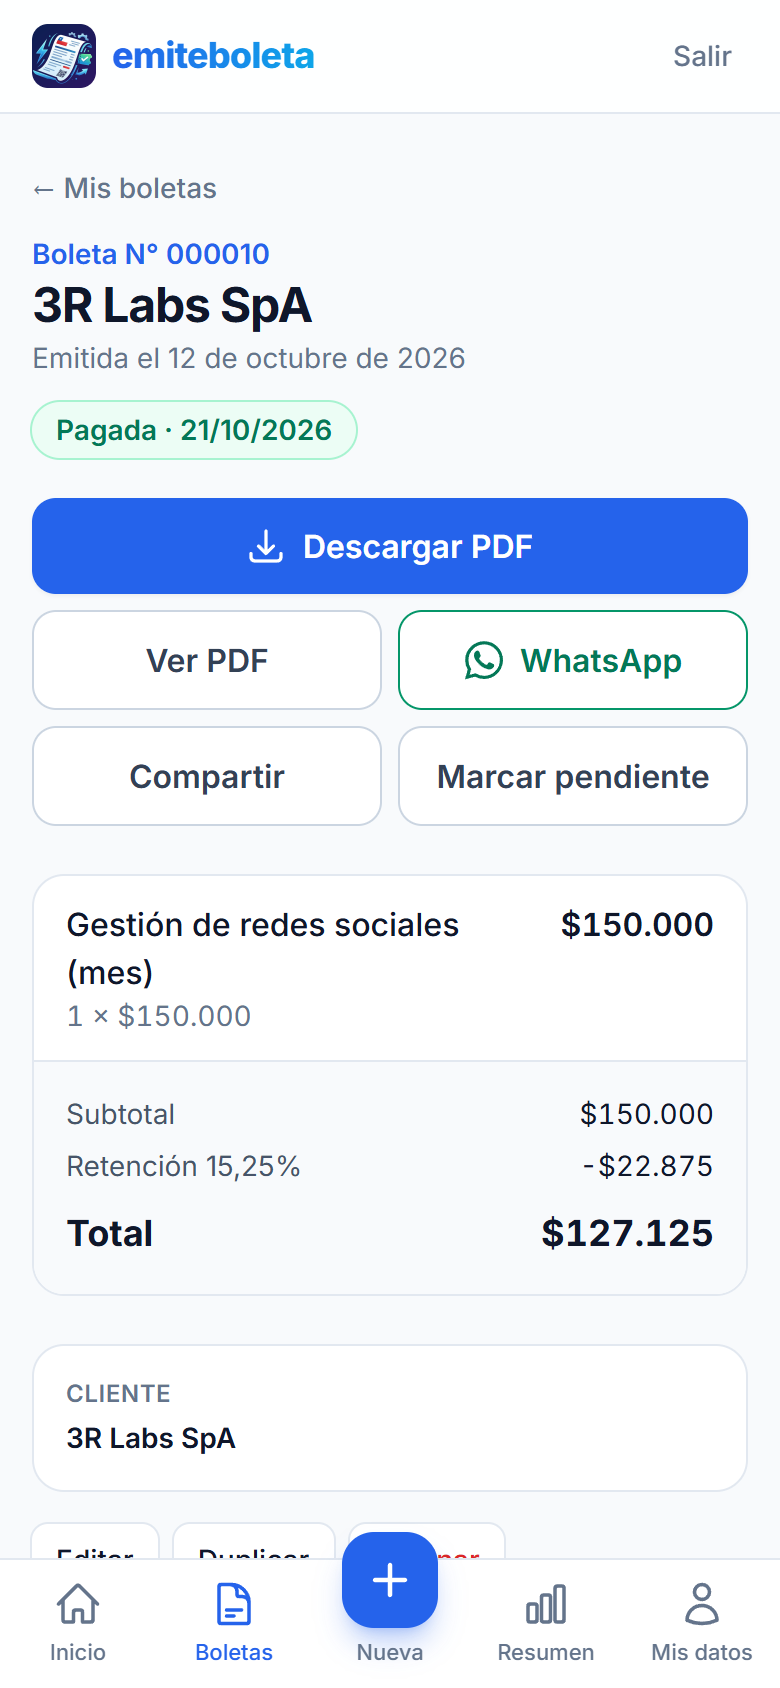
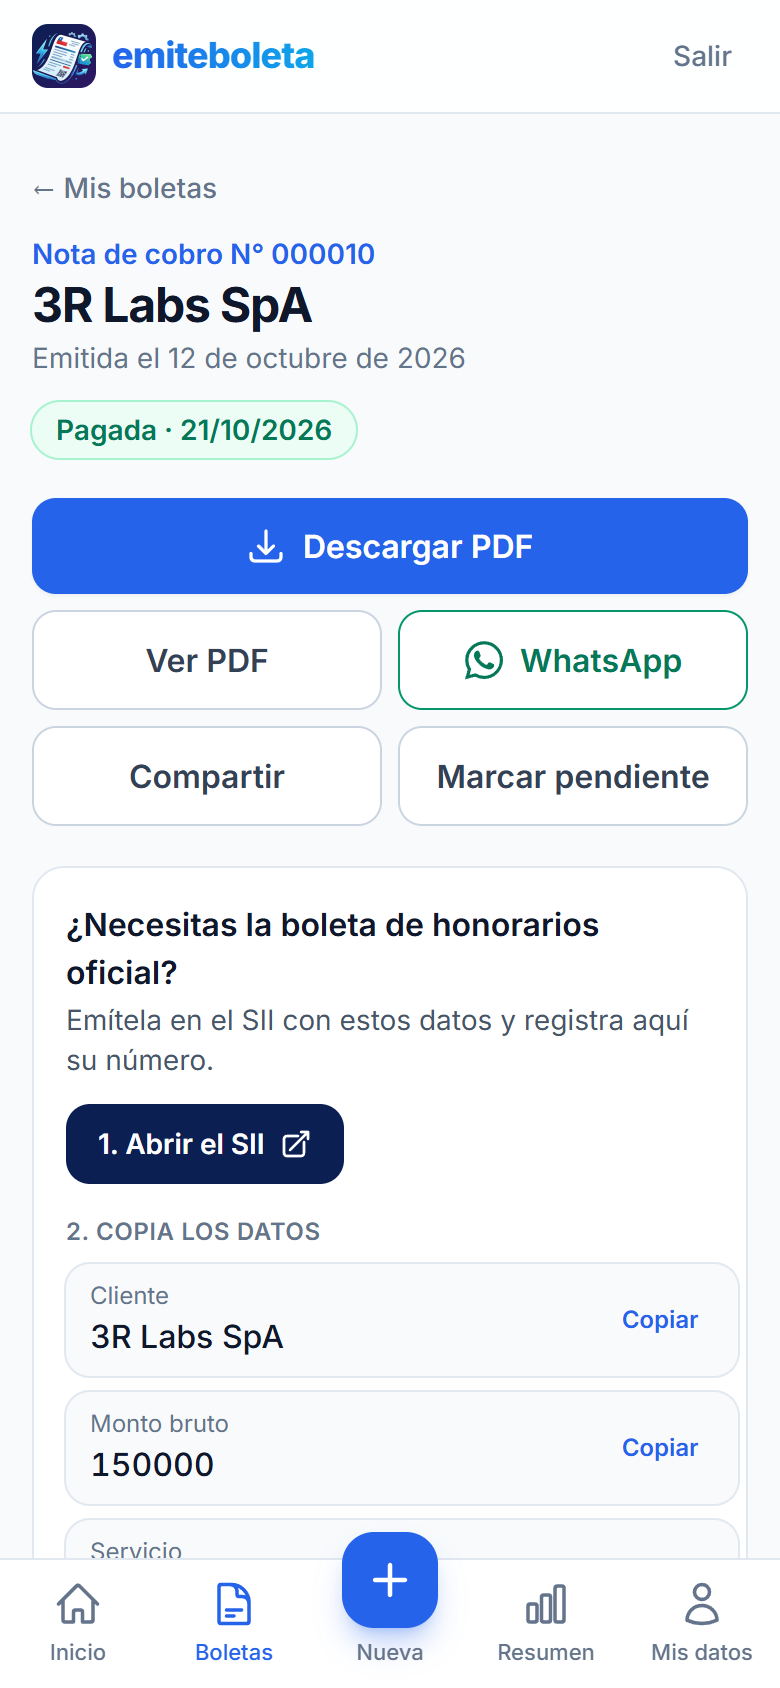
Documenta la nota de cobro y el puente con el SII; actualiza capturas

diff --git a/README.md b/README.md
@@ -24,7 +24,7 @@ En Chile, miles de trabajadores independientes —gasfíteres, profesores partic
 
 EmiteBoleta es una app web *mobile-first*, **gratuita y de código abierto**, que resuelve eso: completas tus datos una vez y desde ahí cada boleta toma 30 segundos, con un PDF que parece hecho por un diseñador.
 
-> EmiteBoleta genera comprobantes de prestación de servicios. **No reemplaza** la boleta de honorarios electrónica del SII cuando corresponda emitirla.
+> EmiteBoleta genera **notas de cobro**, que son documentos no tributarios. **No reemplazan** la boleta de honorarios ni la factura electrónica del SII: la app te ayuda a emitir la boleta oficial en el SII y a registrar su número en cada cobro.
 
 ## Capturas
 
@@ -32,7 +32,10 @@ EmiteBoleta es una app web *mobile-first*, **gratuita y de código abierto**, qu
   <tr>
     <td align="center"><img src="docs/screenshots/movil-dashboard.png" width="250" alt="Inicio en celular"><br><sub>Totales del mes y boletas por cobrar</sub></td>
     <td align="center"><img src="docs/screenshots/movil-nueva.png" width="250" alt="Nueva boleta en celular"><br><sub>Catálogo de servicios y total en vivo</sub></td>
-    <td align="center"><img src="docs/screenshots/movil-detalle.png" width="250" alt="Detalle de boleta en celular"><br><sub>PDF, WhatsApp y estado de pago</sub></td>
+    <td align="center"><img src="docs/screenshots/movil-detalle.png" width="250" alt="Detalle de cobro en celular"><br><sub>PDF, WhatsApp y estado de pago</sub></td>
+  </tr>
+  <tr>
+    <td align="center" colspan="3"><img src="docs/screenshots/movil-sii.png" width="250" alt="Panel para emitir en el SII"><br><sub>Puente con el SII: datos listos para copiar y N° de boleta oficial</sub></td>
   </tr>
 </table>
 
@@ -48,7 +51,8 @@ EmiteBoleta es una app web *mobile-first*, **gratuita y de código abierto**, qu
 | | |
 |---|---|
 | 🧾 **Boletas completas** | Varios servicios por boleta, retención opcional, notas y numeración correlativa automática |
-| 📄 **PDF profesional** | Logo, color de acento a elección, sello «PAGADA» y datos para transferencia |
+| 📄 **Nota de cobro en PDF** | Logo, color de acento a elección, sello «PAGADA» y datos para transferencia |
+| 🏛 **Puente con el SII** | Abre la emisión de la boleta de honorarios en el SII con los datos listos para copiar y guarda su número en el cobro, el PDF y el Excel |
 | 📱 **Hecha para el celular** | Navegación inferior tipo app, botones al alcance del pulgar, instalable como PWA |
 | 💬 **Envío inmediato** | Botón de WhatsApp con mensaje listo y «Compartir» nativo para mandar el PDF |
 | 💰 **Control de cobros** | Estado pagada / pendiente, panel con lo emitido, pagado y por cobrar en el mes |

diff --git a/CHANGELOG.md b/CHANGELOG.md
@@ -2,6 +2,16 @@
 
 Todos los cambios relevantes de EmiteBoleta. El formato sigue [Keep a Changelog](https://keepachangelog.com/es-ES/1.1.0/) y el proyecto usa [versionado semántico](https://semver.org/lang/es/).
 
+## [0.7.0] — 2026-10-21
+
+### Agregado
+- **Puente con el SII** en cada cobro: botón para abrir la emisión de la boleta de honorarios en el SII, datos listos para copiar (cliente, RUT, monto bruto y servicios) y campo para registrar el número de la boleta oficial.
+- El N° de boleta SII aparece en el PDF, en el Excel, en el historial y se puede buscar.
+
+### Cambiado
+- El PDF ahora se titula **«Nota de cobro»** y su pie aclara que es un documento no tributario, para no confundirlo con una boleta del SII.
+- El sello «PAGADA» se movió para no tapar el número de boleta SII.
+
 ## [0.6.0] — 2026-10-21
 
 ### Agregado
@@ -65,6 +75,7 @@ Todos los cambios relevantes de EmiteBoleta. El formato sigue [Keep a Changelog]
 - Validación de RUT chileno.
 - Configuración de deploy para Render y Railway.
 
+[0.7.0]: https://github.com/y-jeff/emiteboleta/compare/v0.6.0...v0.7.0
 [0.6.0]: https://github.com/y-jeff/emiteboleta/compare/v0.5.0...v0.6.0
 [0.5.0]: https://github.com/y-jeff/emiteboleta/compare/v0.4.0...v0.5.0
 [0.4.0]: https://github.com/y-jeff/emiteboleta/compare/v0.3.0...v0.4.0
